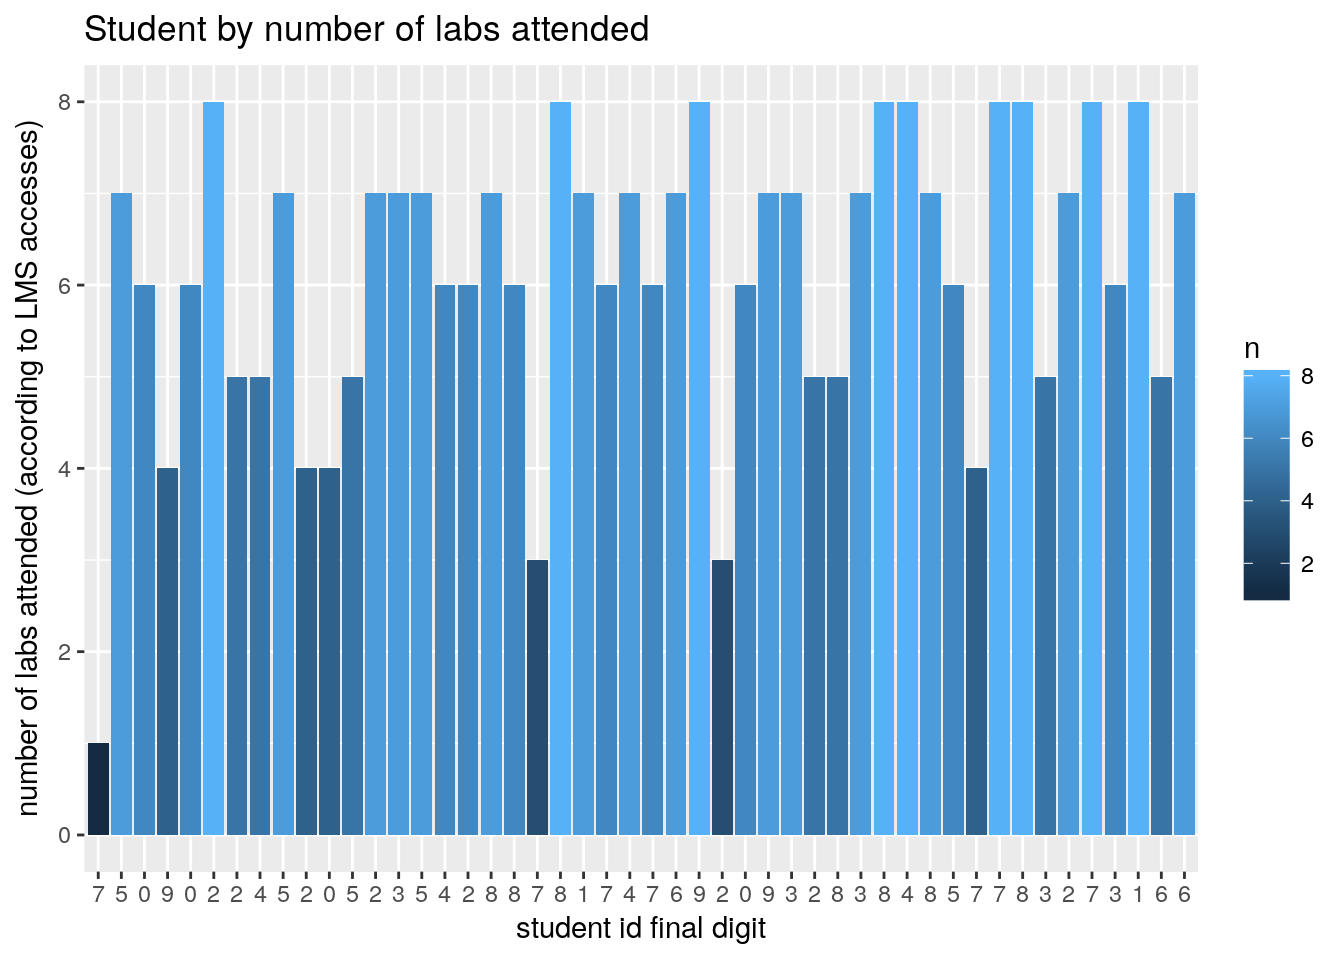
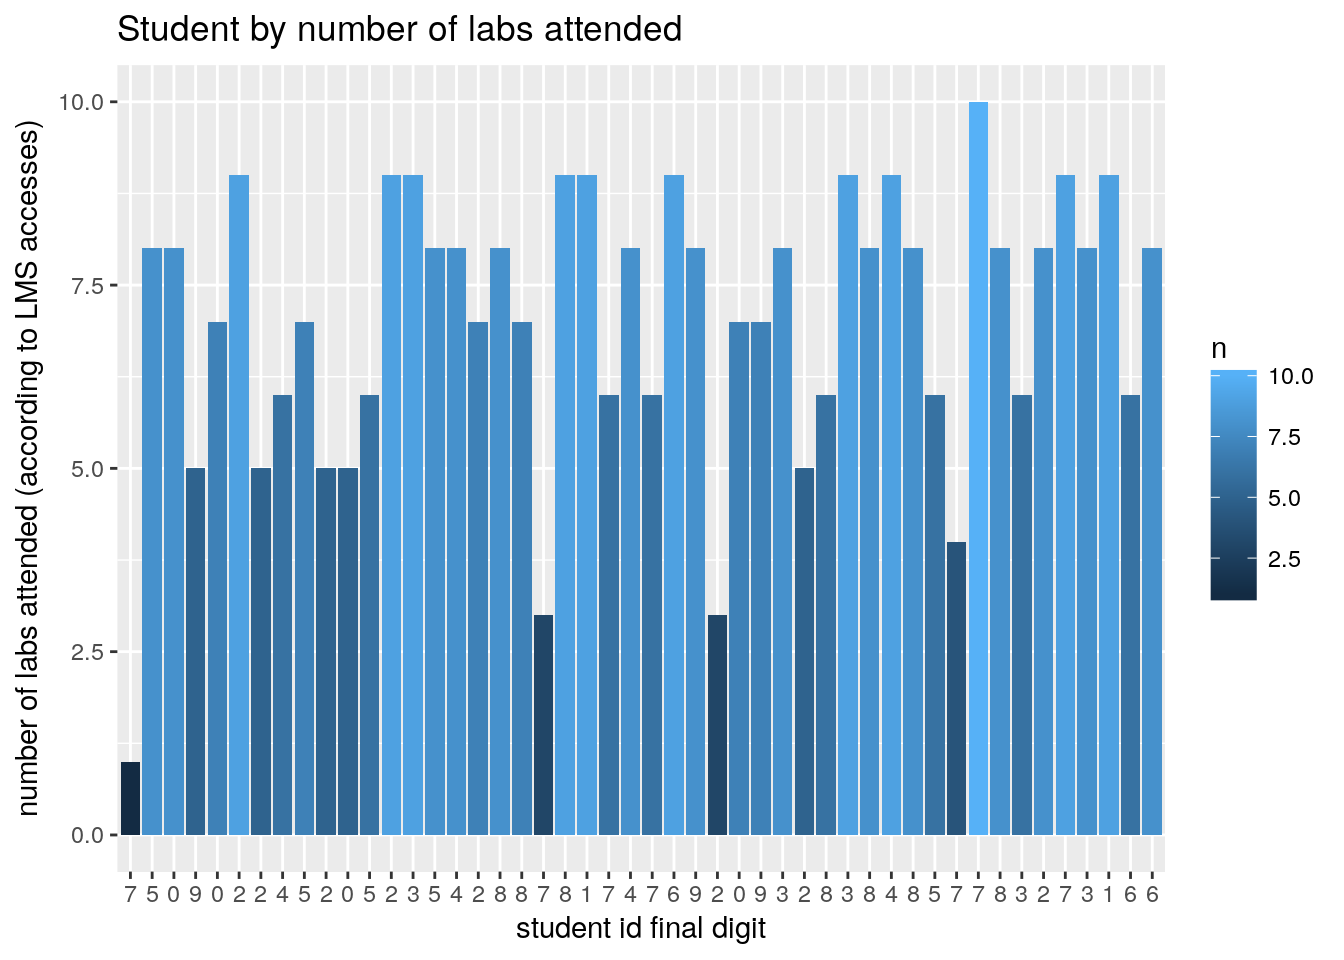
Build site.

diff --git a/docs/processIHBLogs.html b/docs/processIHBLogs.html
@@ -337,7 +337,7 @@ div.section {
 </div>
 
 
-<p><strong>Last updated:</strong> 2018-09-24</p>
+<p><strong>Last updated:</strong> 2018-10-01</p>
 <strong>workflowr checks:</strong> <small>(Click a bullet for more information)</small>
 <ul>
 <li>
@@ -361,7 +361,7 @@ div.section {
 </details>
 </li>
 <li>
-<p><details> <summary> <strong style="color:blue;">✔</strong> <strong>Repository version:</strong> <a href="https://github.com/dewoller/LMS_reports/tree/f8fedf301aaf8afa9ee4a268c7e2e1203a60a93c" target="_blank">f8fedf3</a> </summary></p>
+<p><details> <summary> <strong style="color:blue;">✔</strong> <strong>Repository version:</strong> <a href="https://github.com/dewoller/LMS_reports/tree/a1a066d349a9d0847557fff90faab3b49e21c8ca" target="_blank">a1a066d</a> </summary></p>
 Great! You are using Git for version control. Tracking code development and connecting the code version to the results is critical for reproducibility. The version displayed above was the version of the Git repository at the time these results were generated. <br><br> Note that you need to be careful to ensure that all relevant files for the analysis have been committed to Git prior to generating the results (you can use <code>wflow_publish</code> or <code>wflow_git_commit</code>). workflowr only checks the R Markdown file, but you know if there are other scripts or data files that it depends on. Below is the status of the Git repository when the results were generated:
 <pre><code>
 Ignored files:
@@ -398,6 +398,23 @@ Message
 </tr>
 </thead>
 <tbody>
+<tr>
+<td style="text-align:left;">
+html
+</td>
+<td style="text-align:left;">
+<a href="https://cdn.rawgit.com/dewoller/LMS_reports/a1a066d349a9d0847557fff90faab3b49e21c8ca/docs/processIHBLogs.html" target="_blank">a1a066d</a>
+</td>
+<td style="text-align:left;">
+Dennis Wollersheim
+</td>
+<td style="text-align:left;">
+2018-09-24
+</td>
+<td style="text-align:left;">
+Build site.
+</td>
+</tr>
 <tr>
 <td style="text-align:left;">
 Rmd
@@ -743,10 +760,10 @@ wflow_publish(“analysis/processIHBLogs.Rmd”)
 </ul>
 <p></details></p>
 <hr />
-<div id="marks-for-the-class-logs_2018-him3hibbu-2him5ihbbu-2_20180924-1913.csv" class="section level1">
-<h1>Marks for the class logs_2018-HIM3HIB(BU-2)HIM5IHB(BU-2)_20180924-1913.csv</h1>
-<div id="for-the-period-2018-07-16-093000-2018-09-24-190500" class="section level2">
-<h2>For the period : 2018-07-16 09:30:00, 2018-09-24 19:05:00</h2>
+<div id="marks-for-the-class-logs_2018-him3hibbu-2him5ihbbu-2_20181001-1913.csv" class="section level1">
+<h1>Marks for the class logs_2018-HIM3HIB(BU-2)HIM5IHB(BU-2)_20181001-1913.csv</h1>
+<div id="for-the-period-2018-07-16-093000-2018-10-01-190100" class="section level2">
+<h2>For the period : 2018-07-16 09:30:00, 2018-10-01 19:01:00</h2>
 </div>
 </div>
 <div id="lab-attendence" class="section level1">
@@ -768,6 +785,17 @@ Date
 </tr>
 </thead>
 <tbody>
+<tr>
+<td style="text-align:left;">
+<a href="https://github.com/dewoller/LMS_reports/blob/a1a066d349a9d0847557fff90faab3b49e21c8ca/docs/figure/processIHBLogs.Rmd/lab_participation-1.png" target="_blank">a1a066d</a>
+</td>
+<td style="text-align:left;">
+Dennis Wollersheim
+</td>
+<td style="text-align:left;">
+2018-09-24
+</td>
+</tr>
 <tr>
 <td style="text-align:left;">
 <a href="https://github.com/dewoller/LMS_reports/blob/413572e986cae5353afc9c51a23b60a57b51ab13/docs/figure/processIHBLogs.Rmd/lab_participation-1.png" target="_blank">413572e</a>
@@ -842,6 +870,17 @@ Date
 </tr>
 </thead>
 <tbody>
+<tr>
+<td style="text-align:left;">
+<a href="https://github.com/dewoller/LMS_reports/blob/a1a066d349a9d0847557fff90faab3b49e21c8ca/docs/figure/processIHBLogs.Rmd/lab_participation-2.png" target="_blank">a1a066d</a>
+</td>
+<td style="text-align:left;">
+Dennis Wollersheim
+</td>
+<td style="text-align:left;">
+2018-09-24
+</td>
+</tr>
 <tr>
 <td style="text-align:left;">
 <a href="https://github.com/dewoller/LMS_reports/blob/413572e986cae5353afc9c51a23b60a57b51ab13/docs/figure/processIHBLogs.Rmd/lab_participation-2.png" target="_blank">413572e</a>
@@ -921,6 +960,17 @@ Date
 <tbody>
 <tr>
 <td style="text-align:left;">
+<a href="https://github.com/dewoller/LMS_reports/blob/a1a066d349a9d0847557fff90faab3b49e21c8ca/docs/figure/processIHBLogs.Rmd/Summary_by_student_last_digit-1.png" target="_blank">a1a066d</a>
+</td>
+<td style="text-align:left;">
+Dennis Wollersheim
+</td>
+<td style="text-align:left;">
+2018-09-24
+</td>
+</tr>
+<tr>
+<td style="text-align:left;">
 <a href="https://github.com/dewoller/LMS_reports/blob/413572e986cae5353afc9c51a23b60a57b51ab13/docs/figure/processIHBLogs.Rmd/Summary_by_student_last_digit-1.png" target="_blank">413572e</a>
 </td>
 <td style="text-align:left;">
@@ -993,6 +1043,17 @@ Date
 </tr>
 </thead>
 <tbody>
+<tr>
+<td style="text-align:left;">
+<a href="https://github.com/dewoller/LMS_reports/blob/a1a066d349a9d0847557fff90faab3b49e21c8ca/docs/figure/processIHBLogs.Rmd/Summary_by_student_last_digit-2.png" target="_blank">a1a066d</a>
+</td>
+<td style="text-align:left;">
+Dennis Wollersheim
+</td>
+<td style="text-align:left;">
+2018-09-24
+</td>
+</tr>
 <tr>
 <td style="text-align:left;">
 <a href="https://github.com/dewoller/LMS_reports/blob/413572e986cae5353afc9c51a23b60a57b51ab13/docs/figure/processIHBLogs.Rmd/Summary_by_student_last_digit-2.png" target="_blank">413572e</a>
@@ -1072,6 +1133,17 @@ Date
 </tr>
 </thead>
 <tbody>
+<tr>
+<td style="text-align:left;">
+<a href="https://github.com/dewoller/LMS_reports/blob/a1a066d349a9d0847557fff90faab3b49e21c8ca/docs/figure/processIHBLogs.Rmd/unnamed-chunk-1-1.png" target="_blank">a1a066d</a>
+</td>
+<td style="text-align:left;">
+Dennis Wollersheim
+</td>
+<td style="text-align:left;">
+2018-09-24
+</td>
+</tr>
 <tr>
 <td style="text-align:left;">
 <a href="https://github.com/dewoller/LMS_reports/blob/413572e986cae5353afc9c51a23b60a57b51ab13/docs/figure/processIHBLogs.Rmd/unnamed-chunk-1-1.png" target="_blank">413572e</a>
@@ -1161,6 +1233,17 @@ Date
 <tbody>
 <tr>
 <td style="text-align:left;">
+<a href="https://github.com/dewoller/LMS_reports/blob/a1a066d349a9d0847557fff90faab3b49e21c8ca/docs/figure/processIHBLogs.Rmd/unnamed-chunk-2-1.png" target="_blank">a1a066d</a>
+</td>
+<td style="text-align:left;">
+Dennis Wollersheim
+</td>
+<td style="text-align:left;">
+2018-09-24
+</td>
+</tr>
+<tr>
+<td style="text-align:left;">
 <a href="https://github.com/dewoller/LMS_reports/blob/413572e986cae5353afc9c51a23b60a57b51ab13/docs/figure/processIHBLogs.Rmd/unnamed-chunk-2-1.png" target="_blank">413572e</a>
 </td>
 <td style="text-align:left;">
@@ -1244,6 +1327,17 @@ Date
 </tr>
 </thead>
 <tbody>
+<tr>
+<td style="text-align:left;">
+<a href="https://github.com/dewoller/LMS_reports/blob/a1a066d349a9d0847557fff90faab3b49e21c8ca/docs/figure/processIHBLogs.Rmd/unnamed-chunk-2-2.png" target="_blank">a1a066d</a>
+</td>
+<td style="text-align:left;">
+Dennis Wollersheim
+</td>
+<td style="text-align:left;">
+2018-09-24
+</td>
+</tr>
 <tr>
 <td style="text-align:left;">
 <a href="https://github.com/dewoller/LMS_reports/blob/413572e986cae5353afc9c51a23b60a57b51ab13/docs/figure/processIHBLogs.Rmd/unnamed-chunk-2-2.png" target="_blank">413572e</a>
@@ -1335,6 +1429,17 @@ Date
 <tbody>
 <tr>
 <td style="text-align:left;">
+<a href="https://github.com/dewoller/LMS_reports/blob/a1a066d349a9d0847557fff90faab3b49e21c8ca/docs/figure/processIHBLogs.Rmd/unnamed-chunk-4-1.png" target="_blank">a1a066d</a>
+</td>
+<td style="text-align:left;">
+Dennis Wollersheim
+</td>
+<td style="text-align:left;">
+2018-09-24
+</td>
+</tr>
+<tr>
+<td style="text-align:left;">
 <a href="https://github.com/dewoller/LMS_reports/blob/413572e986cae5353afc9c51a23b60a57b51ab13/docs/figure/processIHBLogs.Rmd/unnamed-chunk-4-1.png" target="_blank">413572e</a>
 </td>
 <td style="text-align:left;">
@@ -1422,6 +1527,17 @@ Date
 </tr>
 </thead>
 <tbody>
+<tr>
+<td style="text-align:left;">
+<a href="https://github.com/dewoller/LMS_reports/blob/a1a066d349a9d0847557fff90faab3b49e21c8ca/docs/figure/processIHBLogs.Rmd/unnamed-chunk-5-1.png" target="_blank">a1a066d</a>
+</td>
+<td style="text-align:left;">
+Dennis Wollersheim
+</td>
+<td style="text-align:left;">
+2018-09-24
+</td>
+</tr>
 <tr>
 <td style="text-align:left;">
 <a href="https://github.com/dewoller/LMS_reports/blob/413572e986cae5353afc9c51a23b60a57b51ab13/docs/figure/processIHBLogs.Rmd/unnamed-chunk-5-1.png" target="_blank">413572e</a>
